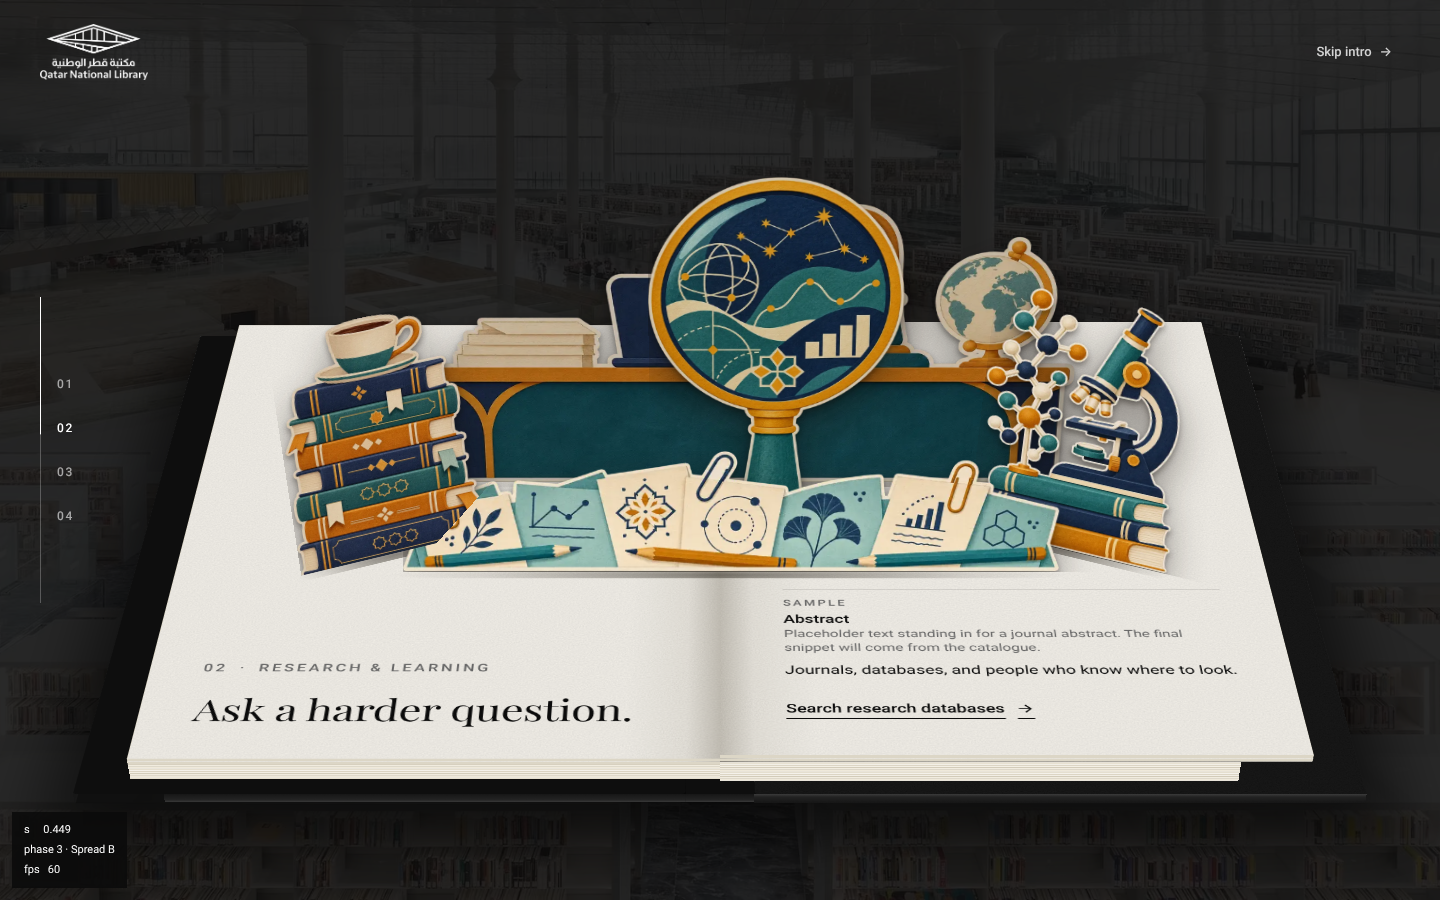
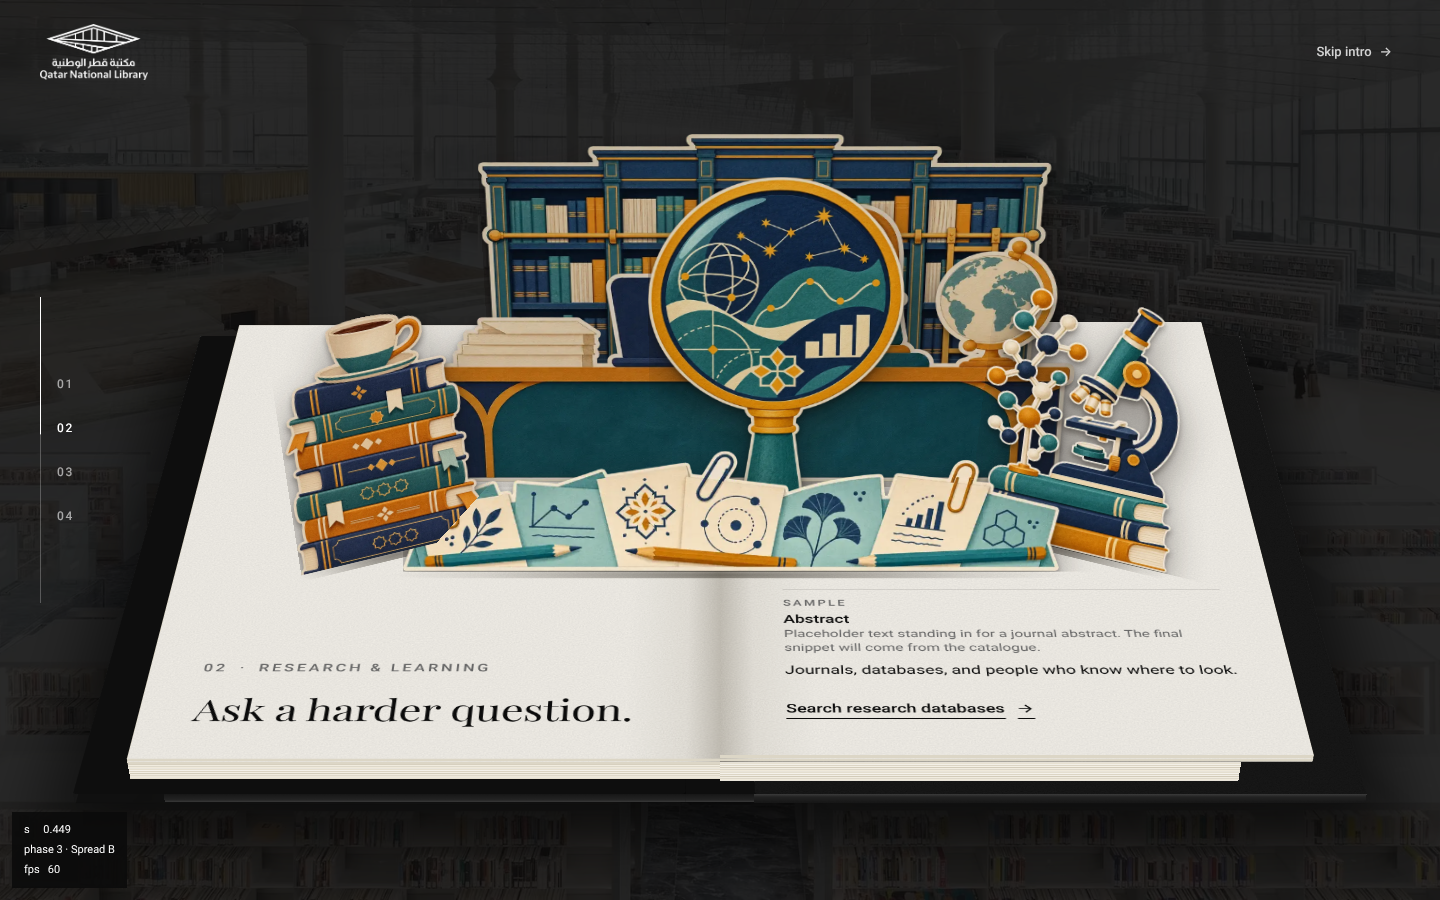
Backdrops for Spreads B and C, first three Spread D layers, incremental asset build
Claude-Session: https://claude.ai/code/session_01NJhkhHsdtjkGgkng91Ef6F

diff --git a/src/data/spreads.ts b/src/data/spreads.ts
@@ -51,7 +51,8 @@ export interface Spread {
 /** height / width of each supplied artwork file after trimming (printed by `npm run assets`) */
 const R = { A1: 797 / 1200, A2: 519 / 1200, A3: 659 / 660, A4: 900 / 680, A5: 1200 / 725, A6: 214 / 1200,
   B2: 594 / 1200, B3: 1200 / 790, B4: 900 / 677, B5: 780 / 585, B6: 221 / 1200,
-  C2: 798 / 1200, C3: 780 / 697, C4: 1040 / 655, C5: 1040 / 783, C6: 276 / 1200 }
+  C2: 798 / 1200, C3: 780 / 697, C4: 1040 / 655, C5: 1040 / 783, C6: 276 / 1200,
+  B1: 693 / 1040, C1: 580 / 1200, D1: 600 / 900, D2: 601 / 1040, D3: 655 / 660 }
 
 export const spreads: Spread[] = [
   {
@@ -93,7 +94,7 @@ export const spreads: Spread[] = [
       lines_ar: null,
     },
     layers: [
-      // layer 1 (shelf-wall backdrop) not yet supplied
+      { src: '/popups/spreadB-layer1.webp', base: 0.35, x: 0.08, w: 1.04, ratio: R.B1, stand: 88 },
       { src: '/popups/spreadB-layer2.webp', base: 0.42, x: 0.06, w: 1.2, ratio: R.B2, stand: 86, mobile: true },
       { src: '/popups/spreadB-layer3.webp', base: 0.52, x: 0.1, w: 0.46, ratio: R.B3, stand: 82, mobile: true },
       { src: '/popups/spreadB-layer4.webp', base: 0.58, x: -0.6, w: 0.36, ratio: R.B4, stand: 80, yaw: -22 },
@@ -118,9 +119,9 @@ export const spreads: Spread[] = [
       lines_ar: null,
     },
     layers: [
-      // layer 1 (building backdrop) not yet supplied
-      { src: '/popups/spreadC-layer2.webp', base: 0.42, x: 0.06, w: 1.14, ratio: R.C2, stand: 86, mobile: true },
-      { src: '/popups/spreadC-layer3.webp', base: 0.5, x: 0.08, w: 0.5, ratio: R.C3, stand: 82, mobile: true },
+      { src: '/popups/spreadC-layer1.webp', base: 0.34, x: 0.04, w: 1.72, ratio: R.C1, stand: 88 },
+      { src: '/popups/spreadC-layer2.webp', base: 0.43, x: 0.06, w: 0.98, ratio: R.C2, stand: 86, mobile: true },
+      { src: '/popups/spreadC-layer3.webp', base: 0.5, x: 0.08, w: 0.44, ratio: R.C3, stand: 82, mobile: true },
       { src: '/popups/spreadC-layer4.webp', base: 0.58, x: -0.62, w: 0.34, ratio: R.C4, stand: 80, yaw: -22 },
       { src: '/popups/spreadC-layer5.webp', base: 0.58, x: 0.66, w: 0.38, ratio: R.C5, stand: 80, yaw: 22 },
       { src: '/popups/spreadC-layer6.webp', base: 0.63, x: 0.02, w: 1.2, ratio: R.C6, stand: 58 },
@@ -138,9 +139,10 @@ export const spreads: Spread[] = [
     body_ar: null,
     link: { href: '#heritage', label_en: 'Explore the heritage collection', label_ar: null },
     layers: [
-      { src: '/popups/spreadD-layer1.svg', base: 0.47, x: 0.17, w: 1.01, ratio: 500 / 860, stand: 84, mobile: true },
-      { src: '/popups/spreadD-layer2.svg', base: 0.57, x: 0.24, w: 0.56, ratio: 480 / 440, stand: 74, mobile: true },
-      { src: '/popups/spreadD-layer3.svg', base: 0.65, x: -0.14, w: 0.74, ratio: 170 / 620, stand: 78 },
+      { src: '/popups/spreadD-layer1.webp', base: 0.42, x: 0.08, w: 1.1, ratio: R.D1, stand: 88, mobile: true },
+      { src: '/popups/spreadD-layer2.webp', base: 0.52, x: 0.04, w: 1.16, ratio: R.D2, stand: 84 },
+      { src: '/popups/spreadD-layer3.webp', base: 0.62, x: 0.08, w: 0.6, ratio: R.D3, stand: 80, mobile: true },
+      // layers 4-6 (astrolabe wing, wind-tower wing, books-and-pearls strip) not yet supplied
     ],
     bgPaper: '#f1ece0',
   },
